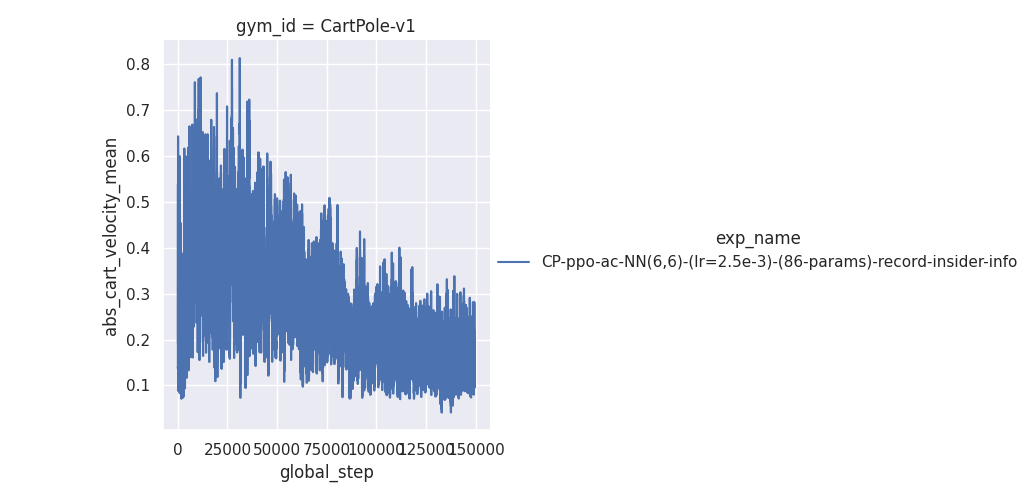
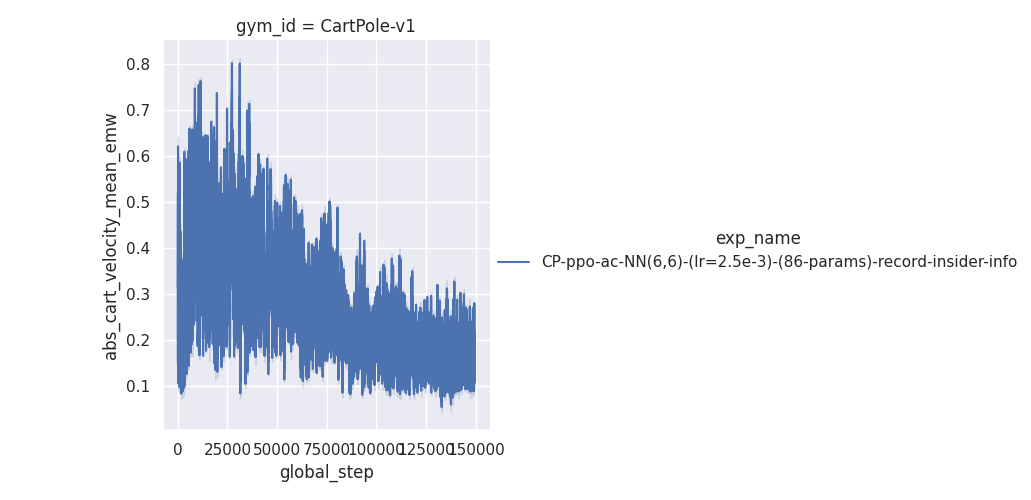
new tests

diff --git a/src/plot.py b/src/plot.py
@@ -876,12 +876,11 @@ def plot_abs_cart_velocity_by_seed(data, dir):
         data=data,
         kind="scatter",
         x="global_step",
-        y="[abs_cart_velocity, abs_cart_velocity_mean]",
+        y="abs_cart_velocity",
         col="exp_name",
         hue="seed",
-        # style="seed",
     )
-    plot_dir = os.path.join(dir, "episode_reward_by_seed.png")
+    plot_dir = os.path.join(dir, "abs_cart_velocity_by_seed.png")
     plt.savefig(plot_dir)
     plt.close()
 
@@ -891,42 +890,63 @@ def plot_abs_pole_velocity_by_seed(data, dir):
         data=data,
         kind="scatter",
         x="global_step",
-        y="[abs_pole_velocity, abs_pole_velocity_mean]",
+        y="abs_pole_velocity",
         col="exp_name",
         hue="seed",
-        # style="seed",
     )
-    plot_dir = os.path.join(dir, "episode_reward_by_seed.png")
+    plot_dir = os.path.join(dir, "abs_pole_velocity_by_seed.png")
     plt.savefig(plot_dir)
     plt.close()
 
 
-def plot_avg_abs_cart_velocity_by_exp_name(abs_cart_velocity, dir):
+def plot_abs_cart_velocity_mean(data, dir):
     sns.relplot(
-        data=abs_cart_velocity,
+        data=data,
         kind="line",
         x="global_step",
-        y="abs_cart_velocity_mean",
+        y="abs_cart_velocity_mean_emw",
         col="gym_id",
         hue="exp_name",
-        # style="exp_name",
+        errorbar="sd",
     )
-    plot_dir = os.path.join(dir, "episode_reward_by_exp_name.png")
+    plot_dir = os.path.join(dir, "abs_cart_velocity_mean.png")
+    plt.savefig(plot_dir)
+    plt.close()
+
+
+def plot_abs_pole_velocity_mean(data, dir):
+    sns.relplot(
+        data=data,
+        kind="line",
+        x="global_step",
+        y="abs_pole_velocity_mean_emw",
+        col="gym_id",
+        hue="exp_name",
+        errorbar="sd",
+    )
+    plot_dir = os.path.join(dir, "abs_pole_velocity_mean.png")
     plt.savefig(plot_dir)
     plt.close()
 
 
 def plot_insider_by_seed(data, dir):
-    data["abs_cart_velocity_mean"] = data.groupby(["exp_name", "seed", "global_step"], sort=False)[
+    data["abs_cart_velocity_mean"] = data.groupby(["exp_name", "global_step"], sort=False)[
         "abs_cart_velocity"
     ].transform("mean")
 
-    data["abs_pole_velocity_mean"] = data.groupby(["exp_name", "seed", "global_step"], sort=False)[
+    data["abs_cart_velocity_mean_emw"] = data["abs_cart_velocity_mean"].ewm(alpha=0.6).mean()
+
+    data["abs_pole_velocity_mean"] = data.groupby(["exp_name", "global_step"], sort=False)[
         "abs_pole_velocity"
     ].transform("mean")
 
+    data["abs_pole_velocity_mean_emw"] = data["abs_pole_velocity_mean"].ewm(alpha=0.6).mean()
+
+    #
     plot_abs_cart_velocity_by_seed(data, dir)
     plot_abs_pole_velocity_by_seed(data, dir)
+    plot_abs_cart_velocity_mean(data, dir)
+    plot_abs_pole_velocity_mean(data, dir)
 
 
 def plot_insider_info(info_dir, plot_dir, gym_id, exp_names, seeds, max_steps):

diff --git a/test_log.py b/test_log.py
@@ -1,4 +1,4 @@
-from src.plot import plot_gradient_avg, plot_test_avg
+from src.plot import plot_gradient_avg, plot_insider_info, plot_test_avg
 
 results_dir = "qppo-slurm/results"
 plots_dir = "final-plots"
@@ -961,7 +961,7 @@ plot_test_avg(results_dir, plot_dir, gym_id, exp_names, seeds, stepsize, max_ste
 
 
 
-"""
+
 # Cartpole hyperparam tests
 
 plot_dir = plots_dir + "/CP-actor-Hyperparameter-Test-0-PPO-NN(6,6)-lr"
@@ -996,7 +996,7 @@ stepsize = 4 * 128 * 8
 max_steps = 150000
 
 plot_test_avg(results_dir, plot_dir, gym_id, exp_names, seeds, stepsize, max_steps)
-
+"""
 
 plot_dir = plots_dir + "/CP-actor-Hyperparameter-Test-0b-PPO-lr-NN-size"
 gym_id = "CartPole-v1"
@@ -1010,6 +1010,17 @@ exp_names = [
 ]
 seeds = [10, 20, 30, 40, 50]
 stepsize = 4 * 128 * 8
-max_steps = 500000
+max_steps = 150000
 
 plot_test_avg(results_dir, plot_dir, gym_id, exp_names, seeds, stepsize, max_steps)
+
+
+plot_dir = plots_dir + "/CP-actor-Hyperparameter-Test-00-insider_info"
+gym_id = "CartPole-v1"
+exp_names = ["CP-ppo-ac-NN(6,6)-(lr=2.5e-3)-(86-params)-record-insider-info"]
+seeds = [10, 20, 30, 40, 50]
+stepsize = 4 * 128 * 8
+max_steps = 150000
+
+# plot_test_avg(results_dir, plot_dir, gym_id, exp_names, seeds, stepsize, max_steps)
+plot_insider_info(results_dir, plot_dir, gym_id, exp_names, seeds, max_steps)
